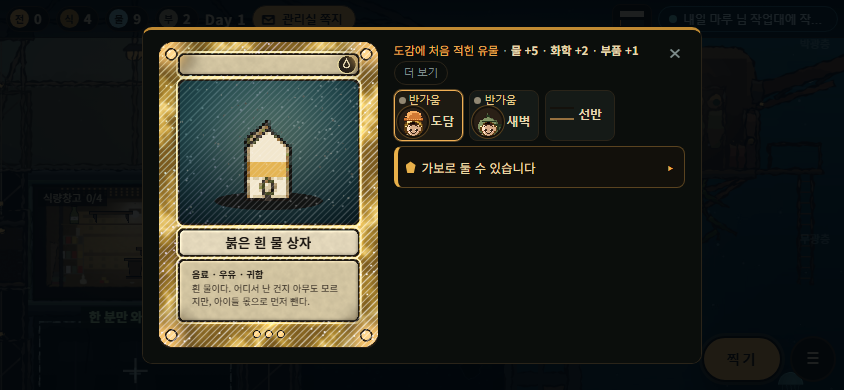
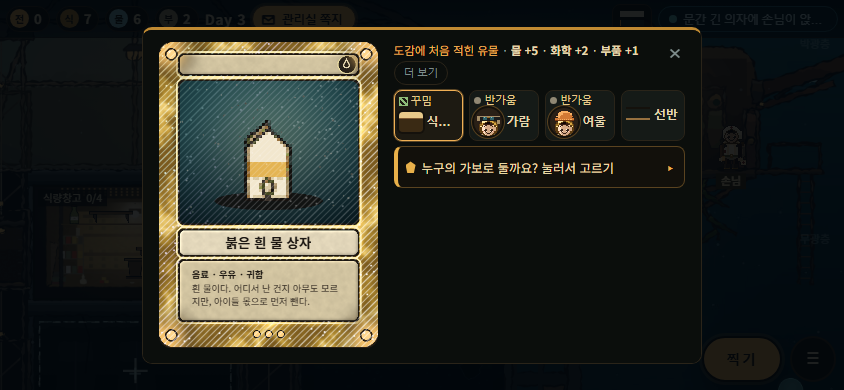
feat(relic-ark): S27 화면 — 한 번에 고르기(8+기타), 고른 뒤 첫 만남 줄, 이름 다시 붙이기, 간직 메모, 가보 후보 단서, 떠날 때 순서, 낮 상, 관리실에 맡기기, 선반 꽉 참 한 번, 첫 진입판, 소비 줄 맨 앞, 844 문어·습격 카드 겹침

Changed region(s): [[0.4621, 0.2462, 0.8009, 0.3692], [0.4929, 0.4, 0.7393, 0.4615]]

diff --git a/projects/02-barcode-game/v2-relic-ark/static/base_core.js b/projects/02-barcode-game/v2-relic-ark/static/base_core.js
@@ -127,7 +127,9 @@
       lastPick = nr;
       redrawFront(nr);
       document.querySelectorAll('#rgain .meetline[data-kind="category"]').forEach(x => x.remove());     // S28: 고르기 전 짐작으로 쓴 줄(「민물 냄새 나는 병」)이 남지 않게
-      if (res.line_ko || res.done_line) { const g = $('#rgain'); if (g) { const sp2 = document.createElement('span'); sp2.className = 'meetline picked'; sp2.textContent = plain(res.line_ko || res.done_line); g.appendChild(sp2); } }
+      const fm = res.first_meet || null, fmt = fm && (fm.line_short || fm.line_ko);
+      if (fm && fm.replaces) document.querySelectorAll('#rgain .meetline[data-kind="' + fm.replaces + '"]').forEach(x => x.remove());
+      if (fmt || res.line_ko) { const g = $('#rgain'); if (g) { const sp2 = document.createElement('span'); sp2.className = 'meetline picked'; sp2.dataset.kind = 'subtype'; sp2.textContent = plain(fmt || res.line_ko); g.appendChild(sp2); } }
       el.remove();
       afterReveal(nr);
       if (res.done_ko) K.toast(plain(res.done_ko));
@@ -136,6 +138,49 @@
     D.log.push('subpick ' + (sp.options || []).length + (sg ? ' suggest' : ''));
   }
   let lastPick = null;
+  // S27 간직 메모: 가보 칸이 열리기 전(3일째 전)에 들어온 귀함 이상 — 단추 없이 한 줄(나중에 가보로)
+  const keepSaid = {};
+  function keepNote(r) {
+    const kk = (r.card || {}).barcode || r.keep_note.name || ''; if (keepSaid[kk]) return; keepSaid[kk] = 1;   // 같은 물건은 세션에 한 번
+    const old = $('#keepNote'); if (old) old.remove();
+    const el = document.createElement('p'); el.id = 'keepNote'; el.className = 'keepnote';
+    el.innerHTML = '<i aria-hidden="true"></i><span>' + esc(plain(r.keep_note.ko)) + '</span>';
+    const strip = $('#giveStrip'), btn = $('#shelfBtn');
+    (strip || btn).parentNode.insertBefore(el, strip ? strip.nextSibling : btn);
+    D.log.push('keep_note ' + (r.keep_note.rarity || ''));
+  }
+  // S27 이름 다시 붙이기: 이미 이름을 정한 바코드를 다시 찍으면 where.rename. 하루 한 번(can_today), 접힌 한 줄 → 누르면 물음과 이름들
+  function renameRow(r) {
+    const rn = r.where.rename, old = $('#renameRow'); if (old) old.remove();
+    const el = document.createElement('div'); el.id = 'renameRow'; el.className = 'renamerow';
+    const draw = (open) => {
+      el.innerHTML = '<button class="rnfold"' + (rn.can_today === false ? ' disabled' : '') + '>' + esc(plain(rn.label_ko || T('scan.rename_label', {}, '이름 다시 붙이기'))) +
+        (rn.can_today === false ? ' <small>오늘은 한 번 바꾸셨습니다</small>' : ' <b aria-hidden="true">' + (open ? '▾' : '▸') + '</b>') + '</button>' +
+        (open ? '<p class="gq">' + esc(plain(rn.confirm_ko || '')) + '</p><div class="subopts">' +
+          (rn.options || []).map(o => '<button data-rn="' + esc(o.id) + '"' + (o.current ? ' class="on" disabled' : '') + '>' + esc(o.ko) + '</button>').join('') + '</div>' : '');
+    };
+    draw(false);
+    const strip = $('#giveStrip'), btn = $('#shelfBtn');
+    (strip || btn).parentNode.insertBefore(el, strip || btn);
+    el.addEventListener('click', async (e) => {
+      if (e.target.closest('.rnfold')) { draw(!el.querySelector('.subopts')); return; }
+      const b = e.target.closest('button[data-rn]'); if (!b || el.classList.contains('busy')) return;
+      el.classList.add('busy');
+      let res;
+      try { res = await call(API.subtype, { barcode: (r.card || {}).barcode || r.barcode, scan_id: (r.where || {}).scan_id || (r.card || {}).id, subtype: b.dataset.rn, rename: true }); }
+      catch (err) { el.classList.remove('busy'); K.toast(err.message || '다시 적지 못했습니다'); return; }
+      if (res.state) K.apply(res.state);
+      const nr = Object.assign({}, r, { card: Object.assign({}, r.card, res.card || {}), where: Object.assign({}, res.where || r.where, { subtype_pick: null, rename: null }) });
+      lastPick = nr; redrawFront(nr); el.remove();
+      const fm = res.first_meet || null, fmt = fm && (fm.line_short || fm.line_ko);
+      document.querySelectorAll('#rgain .meetline').forEach(x => x.remove());
+      if (fmt) { const g = $('#rgain'); if (g) { const sp2 = document.createElement('span'); sp2.className = 'meetline picked'; sp2.textContent = plain(fmt); g.appendChild(sp2); } }
+      afterReveal(nr);
+      if (res.done_ko) K.toast(plain(res.done_ko));
+      D.log.push('rename ' + b.dataset.rn + ' from ' + (res.renamed_from || ''));
+    });
+    D.log.push('renamerow ' + (rn.options || []).length + (rn.can_today === false ? ' done_today' : ''));
+  }
   // S25 가보 칸: 「어디로」 아래 작은 줄 「가보로 · ○○」. 이미 가보가 있으면 서버가 바꿀지 묻는다(기본 그대로)
   function heirloomRow(r) {
     const hs = (r.where.heirloom || []).slice(0, 4);
@@ -144,7 +189,8 @@
     el.classList.add('fold');
     el.innerHTML = '<button class="hfold" aria-expanded="false"><i aria-hidden="true"></i>' + esc((() => { const v = K.ext.moment && K.ext.moment('heirloom.fold_label'); return plain((Array.isArray(v) ? v[0] : (typeof v === 'string' ? v : '')) || '가보로 둘 수 있습니다'); })()) + ' <b aria-hidden="true">▸</b></button>' +
       '<p class="hq"><i aria-hidden="true"></i>' + esc(T('heirloom.ask', {}, '오래 아낄 물건입니다. 누구의 가보로 둘까요?')) + '</p><div class="hopts">' +
-      hs.map((h, i) => '<button data-h="' + i + '">' + face(personById((h.target || {}).resident_id), 22) + esc(h.label || ('가보로 · ' + h.name)) + (h.swap ? ' <small>바꾸기</small>' : '') + '</button>').join('') + '</div>';
+      hs.map((h, i) => '<button data-h="' + i + '">' + face(personById((h.target || {}).resident_id), 22) + '<span class="hl"><b>' + esc(h.label || ('가보로 · ' + h.name)) + (h.swap ? ' <small>바꾸기</small>' : '') + '</b>' +
+        (h.hint_ko ? '<small class="hh">' + esc(plain(h.hint_ko)) + '</small>' : '') + '</span></button>').join('') + '</div>';   // S27: 후보마다 어울리는 까닭 한 줄
     const strip = $('#giveStrip'), btn = $('#shelfBtn');
     const after = strip ? strip.nextSibling : btn;
     (strip || btn).parentNode.insertBefore(el, after);
@@ -168,7 +214,7 @@
       const sg = $('#giveStrip'); if (sg) sg.remove();
       el.remove(); K.closeScan();
       react(res, { rid: target.resident_id, reason: 'heir', target });
-      heirLines(res.heirloom, target.resident_id);
+      if (!res.heirloom_refused) heirLines(res.heirloom, target.resident_id);       // S27: 거절이면 돌려받음 한 줄만
       D.log.push('heir give ' + ((res.heirloom || {}).tier || '') + ((res.heirloom || {}).swapped ? ' swapped' : ''));
     };
     el.onclick = (e) => {
@@ -205,9 +251,12 @@
   function afterReveal(r) {
     const old = $('#giveStrip'); if (old) old.remove();
     if (r !== lastPick) { const op = $('#subPick'); if (op) op.remove(); }     // 다른 카드의 고르기가 남지 않게
+    ['#renameRow', '#keepNote'].forEach(q => { const x = $(q); if (x) x.remove(); });
     const sp = r.where && r.where.subtype_pick;
     if (sp && (sp.options || []).length && (sp.needed || sp.later_ok)) setTimeout(() => subtypePick(r, sp), 0);
     if (((r.where || {}).heirloom || []).length) setTimeout(() => heirloomRow(r), 0);
+    else if (r.keep_note && r.keep_note.ko) setTimeout(() => keepNote(r), 0);
+    if ((r.where || {}).rename && (r.where.rename.options || []).length) setTimeout(() => renameRow(r), 0);
     if (D.mock && !r.suggest) D.mock.suggest(r);
     const sug = normSuggest(r);
     pending = sug.length ? r : null;
@@ -769,6 +818,8 @@
       el.addEventListener('click', () => leaveCard(true)); }
     el.hidden = false; el.innerHTML = '<i aria-hidden="true"></i><span>' + esc(l) + '</span>';
   }
+  const leaveLog = [];
+  D.leaveOrder = () => leaveLog.slice();
   async function leaveCard(manual) {
     if ($('.leavecard')) return;
     const st = K.ark || {};
@@ -777,13 +828,24 @@
     const changed = ((d && (d.changed || d.lines)) || st.session_changes || []).map(txt).filter(Boolean).slice(0, 2);
     const nv = (d && d.next_visit) || st.next_visit || null;
     const nxt = (nv && txt(nv.line || nv)) || T('leave.nothing', {}, '다음에 켜시면 밤사이 일을 한꺼번에 알려 드리겠습니다. 편히 쉬십시오.');
+    // S27 r5-3: 보여 줄 순서는 서버 order(=leave_order). next_visit 가 tomorrow_ask 면 내일의 부탁이 합쳐진 것(그 사람 얼굴과 함께)
+    const ta = (d && d.tomorrow_ask) || (d ? null : st.tomorrow_ask);
+    const mc = (d && d.missed_chain) || st.missed_chain;
+    const blocks = {
+      next_visit: () => (nv && nv.kind === 'tomorrow_ask'
+        ? '<p class="sub">' + esc(nv.title || '다음에 켜시면') + '</p><p class="tomask">' + face(personById(((nv.data || {}).resident_id)), 26) + '<span>' + esc(plain(nxt)) + '</span></p>'
+        : '<p class="sub">' + esc((nv && nv.title) || '다음에 켜시면') + '</p><p class="lnext">' + esc(plain(nxt)) + '</p>'),
+      missed_chain: () => (mc && txt(mc) ? '<p class="missed">' + esc(plain(txt(mc))) + '</p>' : ''),
+      unlock_teaser: () => (((d && d.unlock_teaser) || {}).line ? '<p class="teaser' + (d.unlock_teaser.required ? ' req' : '') + '">' + esc(plain(d.unlock_teaser.line)) + '</p>' : ''),
+      tomorrow_ask: () => (ta && !(nv && nv.kind === 'tomorrow_ask') ? '<p class="tomask">' + face(personById(ta.resident_id), 26) + '<span>' + esc(plain(txt(ta.line))) + '</span></p>' : ''),
+    };
+    const order = ((d && d.order) || st.leave_order || []).filter(k => blocks[k]);
+    ['next_visit', 'missed_chain', 'tomorrow_ask', 'unlock_teaser'].forEach(k => { if (order.indexOf(k) < 0) order.push(k); });
+    leaveLog.push(order.join(','));
     const el = document.createElement('div'); el.className = 'leavecard';
     el.innerHTML = '<div class="leave-in">' +
       (changed.length ? '<p class="sub">' + esc((d && d.title) || T('leave.changed_title', {}, '이번에 바뀐 것')) + '</p>' + changed.map(c => '<p class="dayline">' + esc(plain(c)) + '</p>').join('') : '') +
-      '<p class="sub">' + esc((nv && nv.title) || '다음에 켜시면') + '</p><p class="lnext">' + esc(plain(nxt)) + '</p>' +
-      (((d && d.missed_chain) || st.missed_chain) && txt((d && d.missed_chain) || st.missed_chain) ? '<p class="missed">' + esc(plain(txt((d && d.missed_chain) || st.missed_chain))) + '</p>' : '') +
-      (((d && d.unlock_teaser) || {}).line ? '<p class="teaser' + (d.unlock_teaser.required ? ' req' : '') + '">' + esc(plain(d.unlock_teaser.line)) + '</p>' : '') +
-      (((d && d.tomorrow_ask) || st.tomorrow_ask) ? '<p class="tomask">' + face(personById(((d && d.tomorrow_ask) || st.tomorrow_ask).resident_id), 26) + '<span>' + esc(plain(txt(((d && d.tomorrow_ask) || st.tomorrow_ask).line))) + '</span></p>' : '') +
+      order.map(k => blocks[k]()).join('') +
       '<div class="rowbtns"><button class="ok">' + esc((d && d.close_label) || '잠깐 쉬기') + '</button></div></div>';
     document.body.appendChild(el);
     el.addEventListener('click', (e) => { if (e.target.closest('button.ok') || e.target === el) el.remove(); });
@@ -837,8 +899,9 @@
     document.querySelectorAll('.beatcard, .ppop').forEach(el => el.classList.toggle('folded', open));   // .octwhere 도 .beatcard
   }).observe($('#scan'), { attributes: true, attributeFilter: ['hidden'] });
   // S25: 큰 창은 한 번에 하나(UI_SIMPLE) — 패널(도감·장부 등)이 열려 있는 동안 문어의 「어디로」 카드는 잠시 숨긴다
-  new MutationObserver(() => { const open = !$('#panel').hidden; document.querySelectorAll('.beatcard.octwhere').forEach(e => { e.hidden = open; }); })
-    .observe($('#panel'), { attributes: true, attributeFilter: ['hidden'] });
+  const octHide = () => { const open = !$('#panel').hidden || !$('#raidbar').hidden; document.querySelectorAll('.beatcard.octwhere').forEach(e => { e.hidden = open; }); };
+  new MutationObserver(octHide).observe($('#panel'), { attributes: true, attributeFilter: ['hidden'] });
+  new MutationObserver(octHide).observe($('#raidbar'), { attributes: true, attributeFilter: ['hidden'] });   // S27: 습격 카드를 펼치면 문어 카드도 잠시 숨김
   // 선반 물건 다시 주기(API_S19 §2 relic_id): 사람 + 꾸밈 칸이 남은 방 중에서 고른다
   function regift(it) {
     const a = K.ark || {}, rd = a.room_decor || {};
@@ -971,7 +1034,7 @@
   }
   function openTable(et) {
     et = et || (K.ark || {}).evening_table;
-    if (!et || !et.open) { K.toast('한 상은 저녁(17시부터)에만 차릴 수 있습니다.'); return; }
+    if (!et || !et.open) { K.toast(et && et.done_today ? '오늘은 이미 한 상을 차렸습니다.' : '지금은 한 상을 차릴 수 없습니다.'); return; }
     const show = () => {
       const q = window.ARKBASE.queue ? window.ARKBASE.queue() : {};
       if (!$('#scan').hidden || !$('#panel').hidden || $('.beatcard') || $('.leavecard') || q.busy || (q.wait || []).length) { setTimeout(show, 1500); return; }
@@ -980,7 +1043,7 @@
       const pick = { item: items[0] ? items[0].relic_id : null, seats: [] };
       const el = document.createElement('div'); el.className = 'beatcard tablecard';
       const draw = () => {
-        el.innerHTML = '<div class="phead"><i class="tableico" aria-hidden="true"></i><b>' + esc(T('evening.title', {}, '한 상')) + '</b></div>' +
+        el.innerHTML = '<div class="phead"><i class="tableico" aria-hidden="true"></i><b>' + esc(et.daytime ? T('daytime_table.title', {}, '낮 상') : T('evening.title', {}, '한 상')) + '</b></div>' +   // S27 낮 세션이면 낮 상
           '<p class="bcast">' + esc(plain(et.open_ko || '')) + '</p>' + (ret.length ? '<p class="tret">' + ret.map(esc).join('<br>') + '</p>' : '') +
           '<p class="bask">' + esc(plain(et.table_prompt || '상에 무엇을 올릴까요?')) + '</p>' +
           (items.length ? '<div class="chips">' + items.map(x => '<button class="chip' + (pick.item === x.relic_id ? ' on' : '') + '" data-ti="' + esc(x.relic_id) + '">' + esc(x.name) + (x.today ? ' <small>오늘</small>' : '') + '</button>').join('') + '</div>'
@@ -1007,7 +1070,7 @@
             (r.item ? '<p class="bcast">상에 「' + esc(txt(r.item)) + '」' + (r.food_paid || r.table_store_paid ? ' · 식량 ' + ((r.food_paid || 0) + (r.table_store_paid || 0)) : '') + '</p>' : '') + talk +
             (r.promise ? '<p class="tpromise">' + esc(plain(txt(r.promise))) + '</p>' : '') +
             '<div class="rowbtns"><button class="ok">그렇군요</button></div>';
-          D.log.push('table ' + (r.trust_delta || 0) + (r.promise ? ' promise' : ''));
+          D.log.push('table ' + (r.trust_delta || 0) + (r.promise ? ' promise' : '') + (r.daytime || et.daytime ? ' daytime' : ''));
           return;
         }
         if (e.target.closest('button.ok')) close();

diff --git a/projects/02-barcode-game/v2-relic-ark/static/base.js b/projects/02-barcode-game/v2-relic-ark/static/base.js
@@ -2056,6 +2056,25 @@
     } catch (e) { toast(e.message || '물을 빼지 못했습니다'); }
   }
 
+  let officeNo = null;
+  async function autoDefend() {                              // S27: POST /api/raid/auto_defend — 응답은 접촉 응답 + office{plan, line}
+    const of = $('#roffice'); if (of) of.querySelectorAll('button').forEach(b => { b.disabled = true; });
+    try {
+      const r = await api('/api/raid/auto_defend', {});
+      if (r.state) apply(r.state);
+      if (r.result) {
+        play((cb.raid && cb.raid.creature.audio && cb.raid.creature.audio.contact) || 'sfx_water_splash.ogg', 0.6);
+        const wd = RESULT_WORD[r.result] || [r.result_ko || '', '#e6d7b0'];
+        floatWord(raidTargetSlot(), wd[0], wd[1]);
+        lastOutcome = Object.assign({ raidId: cb.raid && cb.raid.id }, r);
+      }
+      raidOpen = false;
+      toast(plain((r.office && r.office.line) || r.line || ''));
+      officeLog.push({ result: r.result || null, plan: !!(r.office && r.office.plan) });
+      renderRaid(); refreshRaid();
+    } catch (e) { toast(e.message || '관리실이 지금은 맡을 수 없습니다'); if (of) of.querySelectorAll('button').forEach(b => { b.disabled = false; }); }
+  }
+  const officeLog = [];
   async function advanceRaid() {
     const btn = $('#radv'); btn.disabled = true;
     try {
@@ -2123,6 +2142,16 @@
     if (!eyeEl) { eyeEl = document.createElement('p'); eyeEl.id = 'reye'; eyeEl.className = 'eye-early';
                   $('#rhow').after(eyeEl); }
     eyeEl.hidden = !raid.eye_early;
+    // S27 관리실이 대신: 낮 세션의 아직 안 끝난 오늘 습격에만 서버가 office 를 붙인다. 「직접 하기」를 고르면 그 습격 동안 접는다
+    let of = $('#roffice');
+    if (!of) { of = document.createElement('div'); of.id = 'roffice'; of.className = 'roffice'; $('#radv').before(of);
+      of.addEventListener('click', (e) => {
+        if (e.target.closest('[data-oyes]')) autoDefend();
+        else if (e.target.closest('[data-ono]')) { officeNo = (cb.raid || {}).id || true; renderRaid(); }
+      }); }
+    const ofc = raid.office;
+    of.hidden = !(ofc && ofc.ask) || officeNo === (raid.id || true);
+    if (!of.hidden) of.innerHTML = '<p>' + esc(plain(ofc.ask)) + '</p><div class="rowbtns"><button class="on" data-oyes="1">' + esc(plain(ofc.yes_label || '관리실에 맡기기')) + '</button><button data-ono="1">' + esc(plain(ofc.no_label || '직접 하기')) + '</button></div>';
     if (raid.eye_early) eyeEl.textContent = plain(raid.eye_early.ko);
     const g = $('#rgate'), wd = $('#rwould');
     if (raid.ready && raid.creature.threat && raid.stage !== 'done') {
@@ -2796,7 +2825,7 @@
     return (10 - sum % 10) % 10 === chk;
   }
   K_gs1ok = gs1ok;
-  async function handleCode(raw, userCat, source) {
+  async function handleCode(raw, userCat, source, userSub) {
     if (scanBusy) return;
     const code = String(raw || '').replace(/\D/g, '');
     if (code.length < 8) { toast('숫자 8~13자리를 적어 주세요'); return; }
@@ -2812,7 +2841,7 @@
         const pk = await api('/api/peek?barcode=' + code + '&uid=' + encodeURIComponent(uid));
         if (pk.needs_category) { showPicker(pk); return; }
       }
-      const r = await api('/api/scan', { barcode: code, user_category: userCat || null, source });   // source: camera | manual(손 입력은 전역 투표·집계에서 뺀다 — 서버)
+      const r = await api('/api/scan', Object.assign({ barcode: code, user_category: userCat || null, source }, userSub ? { user_subtype: userSub } : {}));   // S27 한 번에 고르기: 하위 종류까지   // source: camera | manual(손 입력은 전역 투표·집계에서 뺀다 — 서버)
       stopCam(); pendingCode = null;
       play('sfx_scan_ok.ogg', 0.5);
       // 선반의 정본은 /api/ark 다. 카드 앞면 그림을 선반에 놓일 물건과 같게 하려고 먼저 받는다
@@ -2821,9 +2850,20 @@
     } catch (e) { toast(e.message || '읽지 못했습니다'); }
     finally { scanBusy = false; $('#manualBtn').disabled = false; }
   }
-  function showPicker(pk) {
-    pendingCode = pk.barcode;
+  let pendingPick = null, fullSaid = false;
+  function showPicker(pk, cats) {
+    pendingCode = pk.barcode; pendingPick = pk;
     const w = $('#picker'); w.hidden = false;
+    const qp = pk.quick_pick;
+    if (qp && (qp.options || []).length && !cats) {          // S27: 갈래·하위 종류를 한 번에(그림 8 + 「기타」)
+      w.classList.add('quick');
+      w.innerHTML = '<p>' + esc(plain(qp.prompt_ko || '이 가문의 성문은 처음 봅니다. 어떤 물건인가요?')) + '</p>' +
+        qp.options.slice(0, 8).map((o, i) => '<button class="qopt" data-qi="' + i + '">' +
+          (o.prop && PROP_ID_OK.test(o.prop) ? '<img alt="" src="/static/art/props/x4/' + esc(o.prop) + '.png">' : '') + '<span>' + esc(o.ko || '') + '</span></button>').join('') +
+        '<button class="qother" data-qother="1">' + esc(plain((qp.other || {}).label_ko || '기타')) + '</button>';
+      return;
+    }
+    w.classList.remove('quick');
     w.innerHTML = '<p>이 가문의 성문은 처음 봅니다. 어떤 물건인가요?</p>' +
       (pk.categories || []).map(c => '<button data-cat="' + esc(c) + '">' + esc(CAT_KO[c] || c) + '</button>').join('') +
       '<button data-cat="">모름</button>';
@@ -2938,7 +2978,7 @@
     const slot = typeof r.shelf_slot === 'number' ? r.shelf_slot : null;
     const item = slot != null ? shelf.find(x => (x.slot | 0) === slot) : null;
     const guess = !!(r.where && r.where.subtype_pick && r.where.subtype_pick.needed);   // 아직 묻는 중이면 짐작한 하위 종류 그림을 쓰지 않는다
-    const pid = (c.subtype && !guess && propForItem(c.category, c.subtype)) || (item && item.prop_id) || propForCategory(c.category);
+    const pid = guess ? propForCategory(c.category) : ((c.subtype && propForItem(c.category, c.subtype)) || (item && item.prop_id) || propForCategory(c.category));
     const sp = propSpec(pid);
     const sea = !!((r.variant && r.variant.shiny) || c.sea_variant || (item && item.variant === 'sea'));
     const front = $('#rcFront');
@@ -2966,7 +3006,9 @@
       : (slot != null
         ? '<span class="where">' + esc((item && item.name) || sp.name || '물건') + ', 선반 ' + (slot + 1) + '번째 칸에 두겠습니다</span>'
         : (r.swap_offer && r.swap_offer.stored_id ? swapOffer(r.swap_offer, c.name || '')
-          : (has ? '<span class="where">선반이 꽉 찼습니다. 창고를 넓히시면 더 둘 수 있습니다</span>' : '')));
+          : ((r.stored && r.stored.quiet_ko) ? '<span class="where quiet">' + esc(plain(r.stored.quiet_ko)) + '</span>'      // S27: 두 번째부터는 조용히
+            : (has && !fullSaid ? '<span class="where">선반이 꽉 찼습니다. 창고를 넓히시면 더 둘 수 있습니다</span>' : ''))));
+    if (has && slot == null) fullSaid = true;
     const vr = r.variant && r.variant.shiny ? r.variant : null;
     const extra = (vr ? '<span class="variantline">' + esc(plain(vr.ko || '')) + '</span>' : '') +
       (r.first_meet || []).map((m, i) => '<span class="meetline" data-kind="' + esc(m.kind || '') + '" data-i="' + i + '">' + esc(plain(m.line || '')) + '</span>').join('') +
@@ -3677,6 +3719,9 @@
   $('#manual').addEventListener('keydown', (e) => { if (e.key === 'Enter') handleCode(e.target.value, undefined, 'manual'); });
   $('#samples').addEventListener('click', (e) => { const b = e.target.closest('button[data-c]'); if (b) handleCode(b.dataset.c, undefined, 'manual'); });
   $('#picker').addEventListener('click', (e) => {
+    const q = e.target.closest('button[data-qi]');
+    if (q && pendingCode && pendingPick && pendingPick.quick_pick) { const o = pendingPick.quick_pick.options[+q.dataset.qi]; if (o) handleCode(pendingCode, o.category, undefined, o.subtype); return; }
+    if (e.target.closest('button[data-qother]') && pendingPick) { showPicker(pendingPick, true); return; }
     const b = e.target.closest('button[data-cat]'); if (b && pendingCode) handleCode(pendingCode, b.dataset.cat || null);
   });
   $('#shelfBtn').addEventListener('click', toShelf);
@@ -3747,6 +3792,7 @@
     sil: () => silDbg,
     // ★ S13 검수: 화면에 보이는 글(DOM 글자 + 지금까지 띄운 토스트 + 캔버스 글자)에 '{' 가 몇 번 나왔나
     podTags: () => Object.assign({}, podTagLog),
+    officeLog: () => officeLog.slice(), autoDefend: () => autoDefend(),
     braceCheck: () => {
       const dom = (document.body.innerText.match(/[{}]/g) || []).length;
       return { dom, toasts: braceLog.toasts, canvas: braceLog.canvas, samples: braceLog.samples.slice(0, 5) };

diff --git a/projects/02-barcode-game/v2-relic-ark/static/base.css b/projects/02-barcode-game/v2-relic-ark/static/base.css
@@ -1036,3 +1036,30 @@ p.srchint, div.srchint{margin:4px 0 6px; font-size:12px}
   /* 「도감에 처음 적힌 유물」 다음 줄과 붙지 않게 */
   #scanCard .rgain .first::after{content:' · '; color:#93a6a3}
 }
+/* ══ S27 ══ */
+/* 한 번에 고르기: 그림 8 + 기타 */
+.picker.quick{grid-template-columns:repeat(4,1fr)}
+.picker .qopt{display:flex; flex-direction:column; align-items:center; justify-content:center; gap:2px; min-height:64px; padding:4px 2px}
+.picker .qopt img{width:48px; height:auto; image-rendering:pixelated}
+.picker .qopt span{font-size:12px}
+.picker .qother{grid-column:1/-1; min-height:36px; color:#b9ae94}
+@media (max-height:500px){ .picker.quick{grid-template-columns:repeat(8,1fr); gap:4px} .picker .qopt{min-height:56px} .picker .qopt img{width:36px} .picker .qopt span{font-size:11px} }
+/* 습격: 관리실이 대신 */
+.roffice{margin:6px 0; padding:7px 9px; background:#0e1a1c; border-left:3px solid #6fc9c4; border-radius:6px}
+.roffice p{margin:0 0 6px; font-size:12.5px; line-height:1.55; color:#cfe8ec}
+.roffice .rowbtns button{min-height:40px}
+.where.quiet{color:#93a6a3}
+/* S27 가보 후보 한 줄 · 간직 메모 · 이름 다시 붙이기 */
+.heirrow .hopts button .hl{display:flex; flex-direction:column; align-items:flex-start; gap:1px; text-align:left}
+.heirrow .hopts button .hl b{font-weight:500}
+.heirrow .hopts .hh{font-size:10.5px; line-height:1.35; color:#cdb98a; white-space:normal}
+.keepnote{display:flex; align-items:flex-start; gap:6px; margin:8px 0 0; padding:6px 9px; font-size:12px; line-height:1.55; color:#f1dfb0; background:#12100b; border-left:3px solid #8a6420; border-radius:6px}
+.keepnote i{flex:none; width:9px; height:11px; margin-top:4px; background:#cdb98a; clip-path:polygon(50% 0,100% 30%,82% 100%,18% 100%,0 30%)}
+.renamerow{margin-top:6px}
+.renamerow .rnfold{min-height:32px; padding:0 12px; font:inherit; font-size:12px; color:#b9ae94; background:transparent; border:1px dashed #4a4030; border-radius:16px; cursor:pointer}
+.renamerow .rnfold[disabled]{cursor:default; opacity:.7}
+.renamerow .rnfold small{font-size:10.5px; color:#93a6a3}
+.renamerow .gq{margin:6px 0 4px; font-size:12px; line-height:1.5; color:#cfe8ec}
+.renamerow.busy button{opacity:.5; pointer-events:none}
+@media (max-height:500px){ .keepnote{margin-top:5px; padding:4px 7px; font-size:11px} .heirrow .hopts .hh{font-size:10px} }
+.heirrow.fold .hfold ~ .hq{display:none}   /* 접힌 줄이 이미 묻는다 — 같은 물음 두 번 없이 */

diff --git a/projects/02-barcode-game/v2-relic-ark/static/base_collect.js b/projects/02-barcode-game/v2-relic-ark/static/base_collect.js
@@ -384,12 +384,15 @@
     K.enqueue('overnight', (done) => {
       const hr = new Date().getHours(), when = hr >= 5 && hr < 11 ? '아침' : hr < 17 ? '낮' : hr < 21 ? '저녁' : '밤';
       const tk = hr >= 5 && hr < 11 ? 'morning' : hr < 17 ? 'day' : hr < 21 ? 'evening' : 'night';                       // S19: 저녁에 열어도 「아침」이라 하던 것
-      const title = T('morning.by_time.' + tk + '.title', {}, '') || (tk === 'morning' ? ((ov && ov.title) || T('morning.title', {}, '밤사이')) : '그사이');
-      const open0 = T('morning.by_time.' + tk + '.open', {}, '');
+      const fe = !!(ov && (ov.first_entry || ov.band === 'first_entry'));          // S27 첫 진입: 「어서 오십시오」 판(그사이 없음)
+      const title = fe ? (T('morning.first_entry.title', {}, '') || ov.title || '어서 오십시오')
+        : (T('morning.by_time.' + tk + '.title', {}, '') || (tk === 'morning' ? ((ov && ov.title) || T('morning.title', {}, '밤사이')) : '그사이'));
+      const open0 = fe ? (T('morning.first_entry.open', {}, '') || ov.open || '') : T('morning.by_time.' + tk + '.open', {}, '');
       const body = K.panel('<h2>' + esc(title) + '</h2><p class="sub">' + esc(day) + '일째 ' + when + '</p>' +
         '<p class="desc">' + esc(K.plain(open0 || (ov && ov.open) || T('morning.open', {}, '좋은 아침입니다, 관리실입니다.'))) + '</p>' +
+        lines.filter(l => l.kind === 'consumed').map(l => '<p class="dayline ov-consumed">' + esc(l.text) + '</p>').join('') +   // 하루 소비는 맨 앞
         (K.ext.core && K.ext.core.morningExtra ? K.ext.core.morningExtra(st) : '') +   // S19: 오늘 바라는 것·찾아온 이·오늘의 일
-        lines.map(l => '<p class="dayline ov-' + esc(l.kind) + '">' + esc(l.text) + '</p>').join('') +
+        lines.filter(l => l.kind !== 'consumed').map(l => '<p class="dayline ov-' + esc(l.kind) + '">' + esc(l.text) + '</p>').join('') +
         '<p class="desc">' + esc(K.plain((ov && ov.close) || T('morning.close', {}, ''))) + '</p>' +
         '<div class="rowbtns"><button class="ovok">' + esc(T('overnight.ok', {}, '확인')) + '</button></div>');
       body.querySelector('.ovok').addEventListener('click', () => K.closePanel());

diff --git a/projects/02-barcode-game/v2-relic-ark/docs/reports/dev_S27_client.md b/projects/02-barcode-game/v2-relic-ark/docs/reports/dev_S27_client.md
@@ -21,3 +21,30 @@
 - 844·1280 콘솔 오류 0. 스크린샷 s27_dup_card_{844,1280}.png.
 
 **남는 것**: 서버 쪽 근본 수정(`_alt` 는 line 에만, announce 는 관리실 서술 대체)은 서버·시나리오 몫이다. 화면은 그것과 무관하게 겹침을 막는다.
+
+## S27 화면 본작업 (API_S19 §17 + where.rename) — 2026-10-17, 커밋하지 않음
+확인은 8041 별도 포트에서만 했다. 8002 는 건드리지 않았고 확인 뒤 8041 은 껐다. 시험 스크립트는 scratchpad t_s27.py.
+
+| 항목 | 화면 | 파일 |
+|---|---|---|
+| 한 번에 고르기(peek.quick_pick) | 갈래를 모르는 바코드: 그림 8개(props x4) + 「기타」. 고르면 `/api/scan {user_category, user_subtype}` 한 번이고 「이게 뭐예요?」를 다시 묻지 않는다. 「기타」 → 예전 갈래 8개 → 하위 종류 | base.js showPicker·handleCode |
+| 고른 뒤 첫 만남 줄(first_meet kind=subtype, replaces) | 갈래 짐작 줄을 지우고 「처음 보는 우유입니다.」 | base_core subtypePick |
+| 이름 다시 붙이기(where.rename) | 이미 이름을 붙인 바코드를 다시 찍으면 「이름 다시 붙이기 ▸」 한 줄. 누르면 rename_confirm 문장과 이름 단추가 나오고, 지금 이름은 눌리지 않는다. 바꾸면 그림·이름·첫 만남 줄을 다시 그리고 done_ko 를 띄운다. 하루 한 번이라 두 번째는 「오늘은 한 번 바꾸셨습니다」 단추가 눌리지 않는다 | base_core renameRow |
+| 간직 메모(keep_note) | 가보 칸이 열리기 전에 들어온 귀함 이상 카드에 단추 없는 한 줄. 같은 물건은 세션에 한 번 | base_core keepNote |
+| 가보 후보 한 줄(hint_ko) | 「가보로 · 온새」 아래 「부엌에서 쓰던 손때 묻은 물건을 아끼시는 분입니다.」. 접힌 줄이 이미 묻고 있어서 펼쳤을 때 같은 물음이 한 번 더 나오지 않게 했다. heirloom_refused 면 결과 한 줄만 | base_core heirloomRow |
+| 떠날 때 순서(order/leave_order) + 내일의 부탁 합치기(r5-3) | 서버 순서대로 그리고, 빠진 블록은 뒤에 붙인다. next_visit.kind=tomorrow_ask 면 「다음에 켜시면」 아래 그 사람 얼굴 + 부탁 한 줄. 「오늘은 여기까지」 문장은 없다 | base_core leaveCard |
+| 낮 한 상(evening_table.daytime) | 카드 제목 「낮 상」, 문장은 서버 open_ko·table_prompt(daytime_table) | base_core openTable |
+| 관리실이 대신 막기(raid.office) | 습격 카드에 물음과 [관리실에 맡기기][직접 하기]. 맡기면 `/api/raid/auto_defend` → 결과 글자·office.line 방송. 「직접 하기」를 누르면 그 습격 동안 접는다 | base.js renderRaid·autoDefend |
+| 선반 꽉 참(세션에 한 번) | 처음 한 번만 바꾸기를 묻는다. 그 뒤로는 서버 `stored.quiet_ko` 한 줄(흐린 색) | base.js showReveal |
+| 첫 진입(overnight.first_entry) | 「어서 오십시오」 판(morning.first_entry). 하루 소비 줄은 그사이 창 맨 앞으로 옮겼다 | base_collect morning |
+| 덤 | 습격 카드를 펼치면 문어 「어디로」 카드를 잠시 숨긴다(844 에서 둘이 겹쳐 단추를 가리던 것). 이름을 묻는 중에는 짐작한 하위 종류 그림 대신 갈래 그림 | base_core·base.js |
+
+**검증 (844·1280)**
+- (자) 13개 필드가 모두 응답에 오고 화면에서 쓰인다(seen=used): quick_pick, first_meet.subtype, keep_note, where.rename, rename.done_ko, heirloom.hint_ko, leave.order, next_visit.tomorrow_ask, evening_table.daytime, raid.office, auto_defend.office, stored.quiet_ko, overnight.first_entry.
+- 관리실 맡기기 결과: held(plan 있음).
+- 콘솔 오류 0. 이름 두 번째 바꾸기 400 은 시험에서 일부러 피했고, 그 밖에 400 이상 응답은 0. braces 0.
+- 스크린샷(s27_*_{844,1280}): first_entry, quick_pick, quick_card, keep_note, rename_open, renamed, leave_order, heir_hints, shelf_quiet, daytime_table, raid_office, raid_office_done.
+
+**남은 것**
+- 기억 벽(memory_wall)과 「어디로」의 pinned 표시는 이번 지시 목록에 없어서 하지 않았다(서버는 준비됨).
+- t_s28 시험은 한 번에 고르기 때문에 고르는 길이 바뀌어 고쳐야 한다(화면 결함은 아님).
